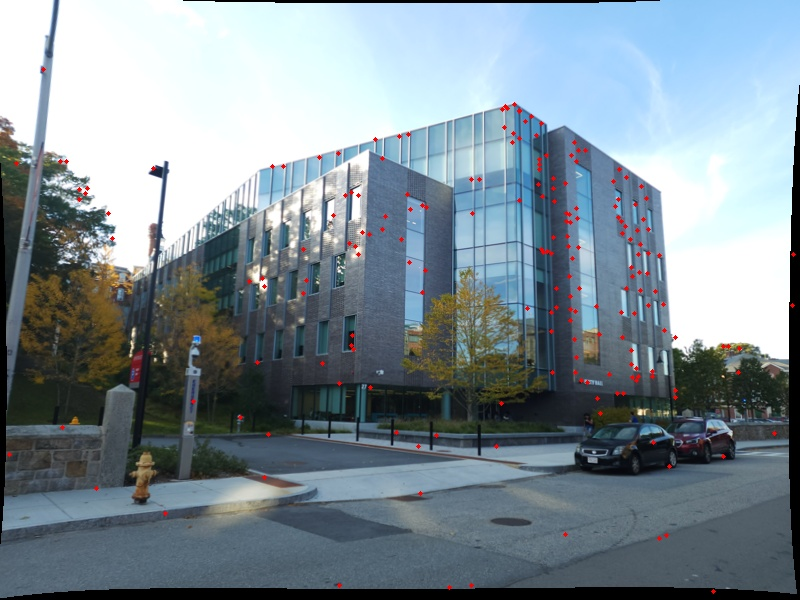
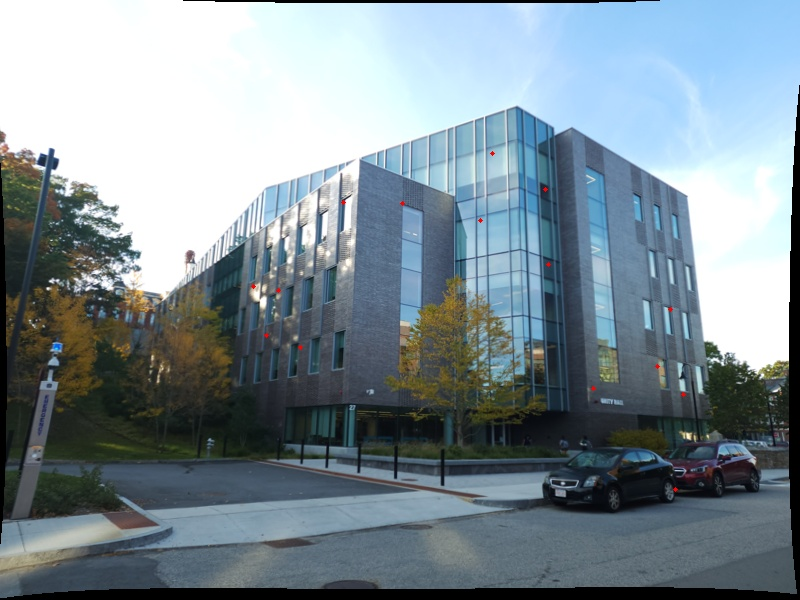
Non Linear Triangulation

diff --git a/main.py b/main.py
@@ -1,21 +1,93 @@
 import cupy as cp
 from utils import camera_mat, projection_mat, Essential_mat
 from utils.RANSAC import RANSAC
-from utils.Camera_pose import pose
-from utils.linear_triangulation import LinearTriangulation
+from utils.Camera_pose import pose, cheirality
+from utils.triangulation import Triangulation
+import matplotlib.pyplot as plt
+import sys
+import cv2
 
 threshold = 0.009
 iteration_limit = 2000
-N = 10
+N = 15
 
 K = cp.asarray(camera_mat('/workspace/omkar_projects/WPI_CV/SFM/P3Data/calibration.txt'))
 R = RANSAC(threshold,iteration_limit,N)
 inliers, F = R.inliers()
 E = Essential_mat(K,F)
 camera_poses = pose(E)
+
 origin_trans = cp.zeros(3)
 original_rot = cp.eye(3)
-for p in camera_poses.keys():
-    world_pts = LinearTriangulation(K, origin_trans, original_rot, camera_poses[p]['C'], camera_poses[p]['R'], inliers)
-    print(world_pts)
 
+cheirality_counter = 0
+world_pts = None
+best_pose = None
+
+T  = Triangulation(K, origin_trans, original_rot, inliers)
+
+## Do linear Triangulation and Cheirality check
+
+for p in camera_poses.keys():    
+    X_init = T.LinearTriangulation(camera_poses[p]['C'], camera_poses[p]['R'])
+    number_of_positives = cheirality(camera_poses[p]['C'], camera_poses[p]['R'], X_init)
+    if number_of_positives > cheirality_counter:
+        cheirality_counter = number_of_positives
+        world_pts = X_init.squeeze(1)#[:,:-1]
+        best_pose = camera_poses[p]
+
+## From the initial estimate of best pose, do non linear triangulation
+
+X = T.NonLinearTriangulation(best_pose['C'], best_pose['R'], world_pts)
+X_refined = X / X[:,3].reshape(-1,1)
+print(X_refined)
+
+# #######################################################
+proj1 = K @ original_rot @ cp.concatenate([cp.eye(3), origin_trans[:,None]], axis=1)
+proj2 = K @ best_pose['R'] @ cp.concatenate([cp.eye(3), best_pose['C'][:,None]], axis=1)
+
+u1 = cp.array(inliers['u1'])[:,:-1]
+u2 = cp.array(inliers['u2'])[:,:-1]
+
+# u1_proj = cp.divide(proj1[0][None,:] @ world_pts.T, proj1[2][None,:] @ world_pts.T)
+# v1_proj = cp.divide(proj1[1][None,:] @ world_pts.T, proj1[2][None,:] @ world_pts.T)
+
+u2_proj = cp.divide(proj2[0][None,:] @ world_pts.T, proj2[2][None,:] @ world_pts.T)
+v2_proj = cp.divide(proj2[1][None,:] @ world_pts.T, proj2[2][None,:] @ world_pts.T)
+
+u2_proj_ref = cp.divide(proj2[0][None,:] @ X_refined.T, proj2[2][None,:] @ X_refined.T)
+v2_proj_ref = cp.divide(proj2[1][None,:] @ X_refined.T, proj2[2][None,:] @ X_refined.T)
+
+img = cv2.imread('/workspace/omkar_projects/WPI_CV/SFM/P3Data/2.png')
+for i,j,k,l,m in zip(u2_proj[0], v2_proj[0], u2, u2_proj_ref[0], v2_proj_ref[0]):
+    if i>0 and j>0:
+        img = cv2.circle(img,(round(i.get().item()),round(j.get().item())),1,(0,0,255),-1)
+    if l>0 and m>0:
+        img = cv2.circle(img,(round(l.get().item()),round(m.get().item())),1,(255,0,0),-1)
+    img = cv2.circle(img,(round(k[0].get().item()),round(k[1].get().item())),1,(0,255,0),-1)
+# for x in u2:
+#     img = cv2.circle(img,(round(x[0].get().item()),round(x[1].get().item())),1,(0,255,0),-1)
+cv2.imwrite('dnvkjfnv.jpg', img)
+
+# # print('##################U1#######################')
+# # print(u1[:,0][100])
+# # print('##################U1_reproj#################')
+# # print(u1_proj[0][100])
+
+
+# #######################################################
+
+
+
+# print(world_pts[:,0].shape)
+
+# fig1= plt.figure(figsize= (5,5))
+# ax = plt.axes(projection="3d")
+# ax.scatter3D(world_pts[:,0].get(),world_pts[:,1].get(),world_pts[:,2].get(),color="green")
+# plt.savefig('3D.png')
+
+# fig = plt.figure(figsize = (10,10))
+# plt.xlim(-4,6)
+# plt.ylim(-2,12)
+# plt.scatter(world_pts[:,0].get(),world_pts[:,1].get(),marker='.',linewidths=0.5, color = 'blue')
+# plt.savefig('2D.png')

diff --git a/utils/FundamentalMatrix.py b/utils/FundamentalMatrix.py
@@ -1,5 +1,6 @@
 import cupy as cp
 import sys
+import cv2
 
 
 def scale_mat(scales):
@@ -26,39 +27,25 @@ def translation_mat(mean):
     return trans1, trans2
 
 
+def normalize(points):
+    pts_mean = cp.mean(points, axis=0)
+    mean_correction = points-pts_mean
+    scale = (len(points) / cp.mean((mean_correction[:,0])**2 + (mean_correction[:,1])**2))**(0.5)
+    scale_mat = cp.array([[scale.get(),0,0],
+                        [0,scale.get(),0],
+                        [0,0,1]])
+    translation_mat = cp.array([[1,0,-pts_mean[0].get()],[0,1,-pts_mean[1].get()],[0,0,1]])
+    transformation_mat = cp.matmul(scale_mat, translation_mat)
+    return (transformation_mat @ points.T).T, transformation_mat
+
 def F(rgb_lst,u1_lst,u2_lst,threshold=0.003):
-    
-    # Concenate the points from image 1 and image 2 for easy operations and leverare cupy/numpy functions.
-    # Concenate across the rows.
-    points_1_2 = cp.concatenate([cp.array(u1_lst),cp.array(u2_lst)], axis=1)
-    
-    # Take the mean across the columns to get a 1X6 vector [x1_mean, y1_mean, 1, x2_mean, y2_mean, 1]
-    mean_1_2 = cp.mean(points_1_2, axis=0   )[None,:]
 
-    # Point correction with (0,0) at the centroid of the image. Get x1_dash,y1_dash,x_2dash,y_2dash. 
-    corrected_pts = points_1_2 - mean_1_2
-
-    # calculate scales using L2 norm
-    scale_1 = len(u1_lst) / cp.sum(((corrected_pts[0])**2 + (corrected_pts[1])**2)**(0.5))
-    scale_2 = len(u2_lst) / cp.sum(((corrected_pts[3])**2 + (corrected_pts[4])**2)**(0.5))
-
-    # refer 'scale_mat' and 'translation_mat' for the explanation
-    scale1, scale2 = scale_mat([scale_1, scale_2])
-
-    translation1, translation2 = translation_mat(mean_1_2.squeeze(0))
-
-    # get transformation matrix using scale and translation
-    transformation1, transformation2 = cp.matmul(scale1,translation1), cp.matmul(scale2,translation2)
-
-    # multiply with original points to get the transformed points
-    u1_normalized = (transformation1 @ points_1_2.T[:3]).T
-    u2_normalized = (transformation2 @ points_1_2.T[3:]).T
+    u1_normalized, transformation_mat1 = normalize(cp.array(u1_lst))
+    u2_normalized, transformation_mat2 = normalize(cp.array(u2_lst))
 
     mat = []
     for u1,u2 in zip(u1_normalized,u2_normalized):
-        u1 = cp.array(u1)
-        u2 = cp.array(u2)
-        eq = cp.concatenate([cp.dot(u1,u2[0]), cp.dot(u1,u2[1]), cp.dot(u1,u2[2])])
+        eq = cp.concatenate([cp.dot(u1,u2[0]), cp.dot(u1,u2[1]), cp.dot(u1,u2[2])],axis=0)
         mat.append(eq)
     mat = cp.array(mat)
     _,s,vT = cp.linalg.svd(mat, full_matrices=True)
@@ -67,7 +54,7 @@ def F(rgb_lst,u1_lst,u2_lst,threshold=0.003):
     F_init = vT.T[:,-1].reshape(3,3)
 
     # Denormalize F
-    F_denorm = transformation2.T @ F_init @ transformation1
+    F_denorm = transformation_mat2.T @ F_init @ transformation_mat1
 
     # SVD of denormalized fundamental matrix
     u_f,s_f,vt_f = cp.linalg.svd(F_denorm)

diff --git a/utils/triangulation.py b/utils/triangulation.py
@@ -1,0 +1,65 @@
+import cupy as cp
+import numpy as np
+from utils import projection_mat
+import scipy.optimize as optimize
+
+class Triangulation():
+
+    def __init__(self, K, C1, R1, inliers):
+        self.K = K
+        # self.C1 = C1, self.R1 = R1
+        # self.C2 = C2, self.R2 = R2
+        self.u1 = inliers['u1']
+        self.u2 = inliers['u2']
+        self.proj_mat1 = projection_mat(K,R1,C1[:,None])
+
+    def LinearTriangulation(self, C2, R2):
+
+        def skew(pts):
+            return cp.array([[0, -pts[2], pts[1]], [pts[2], 0, -pts[0]], [-pts[1], pts[0], 0]])
+
+        world_pts = []
+
+        proj_mat2 = projection_mat(self.K,R2,C2[:,None])
+        for i,j in zip(self.u1,self.u2):
+            mat = cp.vstack((skew(i) @ self.proj_mat1, skew(j) @ proj_mat2))
+            u,s,vt = cp.linalg.svd(mat)
+            X = vt[-1] / vt[-1,-1]
+            X = cp.reshape(X, (len(X), -1)).transpose()
+            world_pts.append(X)
+        world_pts = cp.array(world_pts)
+        return world_pts
+
+    def NonLinearTriangulation(self, C2, R2, X3d):
+        proj_mat2 = projection_mat(self.K,R2,C2[:,None]).get()
+        
+        def projectionloss(X, pts1, pts2, P1, P2):
+            p1_1T, p1_2T, p1_3T = P1 # rows of P1
+            p1_1T, p1_2T, p1_3T = p1_1T.reshape(1,-1), p1_2T.reshape(1,-1),p1_3T.reshape(1,-1)
+            
+            p2_1T, p2_2T, p2_3T = P2 # rows of P2
+            p2_1T, p2_2T, p2_3T = p2_1T.reshape(1,-1), p2_2T.reshape(1,-1), p2_3T.reshape(1,-1)
+
+            ## reprojection error for reference camera points - j = 1
+            u1,v1 = pts1[0], pts1[1]
+            u1_proj = np.divide(p1_1T.dot(X) , p1_3T.dot(X))
+            v1_proj = np.divide(p1_2T.dot(X) , p1_3T.dot(X))
+            E1= np.square(v1 - v1_proj) + np.square(u1 - u1_proj)
+
+            
+            ## reprojection error for second camera points - j = 2    
+            u2,v2 = pts2[0], pts2[1]
+            u2_proj = np.divide(p2_1T.dot(X) , p2_3T.dot(X))
+            v2_proj = np.divide(p2_2T.dot(X) , p2_3T.dot(X))    
+            E2= np.square(v2 - v2_proj) + np.square(u2 - u2_proj)
+            
+            error = E1 + E2
+            return error.squeeze()
+
+        x3D_ = []
+        for i in range(len(X3d)):
+            optimized_params = optimize.least_squares(fun=projectionloss, x0=X3d[i].get(), method="trf", args=[self.u1[i], self.u2[i], self.proj_mat1.get(), proj_mat2])
+            X1 = optimized_params.x
+            x3D_.append(X1)
+        return cp.array(x3D_)
+

diff --git a/utils/Camera_pose.py b/utils/Camera_pose.py
@@ -1,15 +1,15 @@
 import cupy as cp
+import sys
 
 def pose(E):
     
-    cheirality_freq = []
     W = cp.array([[0,-1,0],[1,0,0],[0,0,1]])
     U,D,Vt = cp.linalg.svd(E)
 
-    camera_poses = {'1':{'C':U[:,2], 'R':U @ W @ Vt},
-                    '2':{'C':-U[:,2], 'R':U @ W @ Vt},
-                    '3':{'C':U[:,2], 'R':U @ W.T @ Vt},
-                    '4':{'C':-U[:,2], 'R':U @ W.T @ Vt}}
+    camera_poses = {'1':{'C':U[:,2], 'R':(U @ (W @ Vt))},
+                    '2':{'C':-U[:,2], 'R':(U @ (W @ Vt))},
+                    '3':{'C':U[:,2], 'R':(U @ (W.T @ Vt))},
+                    '4':{'C':-U[:,2], 'R':(U @ (W.T @ Vt))}}
     for i in camera_poses.keys():
         if cp.linalg.det(camera_poses[i]['R']).astype(cp.int8)==-1:
             camera_poses[i]['R'] *= -1
@@ -17,12 +17,12 @@ def pose(E):
         
     return camera_poses
 
-    
-    
-    
+def cheirality(C,R,X):
+    counter = 0
+    for world_point in X:
+        world_point = world_point[0] / world_point[0][-1]
+        if (R[:,2][None,:] @ (world_point[:-1][:,None] - C[:,None])).squeeze(1).item() > 0\
+            and world_point[2]>0:
+            counter+=1
+    return counter   
 
-
-    
-# print(pose(cp.array([[0.75599978,-0.56102436,-0.18035228],
-# [0.44184109,0.81747558,-0.19880999],
-#  [ 0.38940319,0.10448964,-0.12498331]])))

diff --git a/utils/RANSAC.py b/utils/RANSAC.py
@@ -4,7 +4,7 @@ import cv2
 from utils.FundamentalMatrix import F
 
 
-number_of_images = 4
+number_of_images = 2
 matching_file = '/workspace/omkar_projects/WPI_CV/SFM/P3Data/matching1.txt'
 
 class RANSAC():
@@ -24,8 +24,8 @@ class RANSAC():
             if number_of_images in img_id:
                 self.matching_features['RGB values'].append((int(l[1]),int(l[2]),int(l[3])))
                 self.matching_features['u1'].append((float(l[4]),float(l[5]),1))
-                self.matching_features['u2'].append((float(l[l.index(str(number_of_images))+1]),
-                                                float(l[l.index(str(number_of_images))+2]),1))
+                self.matching_features['u2'].append((float(l[l[1:].index(str(number_of_images))+2]),
+                                                float(l[l[1:].index(str(number_of_images))+3]),1))
         best_inliers = {'RGB values':[],'u1':[],'u2':[]}
         for i in range(self.iteration_limit):
             idxs = random.sample(range(0, len(self.matching_features['RGB values'])), self.N)

diff --git a/utils/dataloader.py b/utils/dataloader.py
@@ -1,0 +1,27 @@
+import sys, random
+import cupy as cp
+import cv2
+
+number_of_images = 2
+matching_file = '/workspace/omkar_projects/WPI_CV/SFM/P3Data/matching1.txt'
+
+matching_features = {'RGB values':[],'u1':[],'u2':[]}
+
+
+file = open(matching_file, 'r')
+for idx,line in enumerate(file.readlines()[1:]):
+    l = line[:-2].split(' ')
+    img_id = [int(l[(i+1)*3]) for i in range(int(l[0]))][1:]
+    if number_of_images in img_id:
+        matching_features['RGB values'].append((int(l[1]),int(l[2]),int(l[3])))
+        matching_features['u1'].append((float(l[4]),float(l[5]),1))
+        matching_features['u2'].append((float(l[l[1:].index(str(number_of_images))+2]),
+                                        float(l[l[1:].index(str(number_of_images))+3]),1))
+        
+
+img = cv2.imread('/workspace/omkar_projects/WPI_CV/SFM/P3Data/1.png')
+for i in matching_features['u1']:
+    x = round(i[0])
+    y = round(i[1])
+    img = cv2.circle(img, (x,y), 2, (0,255,0), -1)
+cv2.imwrite('IMG2.jpg', img)

diff --git a/utils/__init__.py b/utils/__init__.py
@@ -11,7 +11,7 @@ def projection_mat(K,Rot,trans):
     return proj_mat
 
 def Essential_mat(K,F):
-    E = K.T @ F @ K
+    E = K.T @ (F @ K)
     u,_,vt = cp.linalg.svd(E)
     E = u @ cp.diag([1,1,0]) @ vt
     return E
